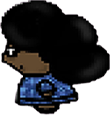
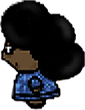
Juego completado. Animaciones agregadas. Parpadeo reducido

diff --git a/src/Interfaz/HistoriaMary.java b/src/Interfaz/HistoriaMary.java
@@ -28,6 +28,12 @@ public class HistoriaMary extends javax.swing.JPanel {
     String dir2;
     String lastDir;
     String user;
+    private int infinito;
+    private int leg;
+    private int contLeg;
+    private int direct;
+    private int mov;
+    private int verif;
     Boolean objs[] = {false, false, false, false, false, false, false};
     int cont = 2, tipo = 0;
 
@@ -47,7 +53,6 @@ public class HistoriaMary extends javax.swing.JPanel {
         DM2.setVisible(false);
         DM3.setVisible(false);
         OBFA.setVisible(false);
-        OBNF.setVisible(false);
         OBF.setVisible(false);
         Obj1.setVisible(false);
         Obj2.setVisible(false);
@@ -56,12 +61,60 @@ public class HistoriaMary extends javax.swing.JPanel {
         Obj5.setVisible(false);
         Obj6.setVisible(false);
         Obj7.setVisible(false);
+        caminarMary.start();
     }
 
     public void paint(Graphics g, Image i, int x, int y) {
         super.paint(g);
         g.drawImage(i, x, y, null);
     }
+    public void dibujar(int x, int y, String dir) {
+        mary.Dibujar(this.getGraphics(), x, y, dir);
+
+    }
+    Thread caminarMary = new Thread() {
+        @Override
+        public void run() {
+            infinito = 0;
+
+            while (infinito == 0) {
+                try {
+                    contLeg++;
+                    mov++;
+                    if (contLeg == 3) {
+                        if (direct == -1) {
+                            dir = user + "\\src\\Resources\\Images\\Mary\\M-L.png";
+                            dibujar(x, y, dir);
+                        }
+                        if (direct == 1) {
+                            dir = user + "\\src\\Resources\\Images\\Mary\\M-R.png";
+                            dibujar(x, y, dir);
+                        }
+                        if (direct == 2) {
+                            dir = user + "\\src\\Resources\\Images\\Mary\\M-B.png";
+                            dibujar(x, y, dir);
+                        }
+                        if (direct == -2) {
+                            dir = user + "\\src\\Resources\\Images\\Mary\\M-D.png";
+                            dibujar(x, y, dir);
+                        }
+
+                    }
+
+                    Thread.sleep(100);
+                } catch (InterruptedException e) {
+
+                }
+            }
+        }
+    };
+    private boolean isFast() {
+        if (mov <= 1) {
+            return true;
+        }
+        return false;
+    }
+
 
     @SuppressWarnings("unchecked")
     // <editor-fold defaultstate="collapsed" desc="Generated Code">//GEN-BEGIN:initComponents
@@ -80,7 +133,6 @@ public class HistoriaMary extends javax.swing.JPanel {
         DM3 = new javax.swing.JLabel();
         OBF = new javax.swing.JLabel();
         OBFA = new javax.swing.JLabel();
-        OBNF = new javax.swing.JLabel();
         VolverSeleccion = new javax.swing.JButton();
         BCK6 = new javax.swing.JLabel();
 
@@ -144,9 +196,6 @@ public class HistoriaMary extends javax.swing.JPanel {
         OBFA.setIcon(new javax.swing.ImageIcon(getClass().getResource("/Resources/Images/Mary/OBFA.png"))); // NOI18N
         add(OBFA, new org.netbeans.lib.awtextra.AbsoluteConstraints(470, 450, -1, -1));
 
-        OBNF.setIcon(new javax.swing.ImageIcon(getClass().getResource("/Resources/Images/Mary/OBNF.png"))); // NOI18N
-        add(OBNF, new org.netbeans.lib.awtextra.AbsoluteConstraints(470, 450, -1, -1));
-
         VolverSeleccion.setText("Volver a Seleccion de personajes");
         VolverSeleccion.addActionListener(new java.awt.event.ActionListener() {
             public void actionPerformed(java.awt.event.ActionEvent evt) {
@@ -164,86 +213,143 @@ public class HistoriaMary extends javax.swing.JPanel {
         /*float x = evt.getX(), y = evt.getY();
         System.out.println(x + " , " + y);*/
     }//GEN-LAST:event_formMouseClicked
-
-    private void formKeyPressed(java.awt.event.KeyEvent evt) {//GEN-FIRST:event_formKeyPressed
+    public void movimiento(int key) {
         x = mary.getX();
         y = mary.getY();
         int type;
         dir = "";
 
-        int key = evt.getKeyCode();
         if (estado == Estado.NOT_IN_DIALOG) {
             if (cont > 4) {
                 switch (key) {
                     case KeyEvent.VK_LEFT:
-                        if (y >= 270 && y <= 540) {
+                        if (y >= 240 && y <= 510) {
                             if (!(x - 10 < 150)) {
                                 x -= 10;
                             }
                         } else {
-                            if (y >= 230 && y <= 270) {
+                            if (y >= 200 && y <= 240) {
                                 if (!(x - 10 < 360)) {
                                     x -= 10;
                                 }
                             }
                         }
-                        dir = user + "\\src\\Resources\\Images\\Mary\\M-L.png";
+                        if (leg == 1) {
+                            dir = user + "\\src\\Resources\\Images\\Mary\\M-L-L.png";
+                            mov = 0;
+                            contLeg = 0;
+                            direct = -1;
+                            leg = 2;
+                        } else {
+                            mov = 0;
+                            dir = user + "\\src\\Resources\\Images\\Mary\\M-L-R.png";
+
+                            leg = 1;
+
+                            contLeg = 0;
+                            direct = -1;
+
+                        }
+
                         lastDir = dir;
                         break;
                     case KeyEvent.VK_RIGHT:
-                        if (y >= 230 && y <= 440) {
+                        if (y >= 200 && y <= 410) {
                             if (!(x + 10 > 1250)) {
                                 x += 10;
                             }
                         } else {
-                            if (y >= 440 && y <= 540) {
+                            if (y >= 410 && y <= 510) {
                                 if (!(x + 10 > 850)) {
                                     x += 10;
                                 }
                             }
                         }
 
-                        dir = user + "\\src\\Resources\\Images\\Mary\\M-R.png";
+                        if (leg == 1) {
+                            mov = 0;
+                            dir = user + "\\src\\Resources\\Images\\Mary\\M-R-L.png";
+
+                            leg = 2;
+                            contLeg = 0;
+                            direct = 1;
+                        } else {
+                            mov = 0;
+                            dir = user + "\\src\\Resources\\Images\\Mary\\M-R-R.png";
+
+                            leg = 1;
+                            contLeg = 0;
+                            direct = 1;
+                        }
+
                         lastDir = dir;
                         break;
                     case KeyEvent.VK_UP:
                         if (x >= 150 && x <= 350) {
-                            if (!(y - 10 < 270)) {
+                            if (!(y - 10 < 240)) {
                                 y -= 10;
                             }
 
                         } else {
                             if (x >= 360 && x <= 1250) {
-                                if (!(y - 10 < 230)) {
+                                if (!(y - 10 < 200)) {
                                     y -= 10;
 
                                 }
                             }
                         }
+                        if (leg == 1) {
+                            mov = 0;
+                            dir = user + "\\src\\Resources\\Images\\Mary\\M-B-L.png";
 
-                        dir = user + "\\src\\Resources\\Images\\Mary\\M-B.png";
+                            leg = 2;
+                            contLeg = 0;
+                            direct = 2;
+                        } else {
+                            mov = 0;
+                            dir = user + "\\src\\Resources\\Images\\Mary\\M-B-R.png";
+
+                            leg = 1;
+                            contLeg = 0;
+                            direct = 2;
+                        }
+
                         lastDir = dir;
                         break;
                     case KeyEvent.VK_DOWN:
                         if (x >= 150 && x <= 850) {
-                            if (!(y + 10 > 540)) {
+                            if (!(y + 10 > 510)) {
                                 y += 10;
                             }
 
                         } else {
                             if (x >= 850 && x <= 1250) {
-                                if (!(y + 10 > 440)) {
+                                if (!(y + 10 > 410)) {
                                     y += 10;
 
                                 }
                             }
                         }
+                        if (leg == 1) {
+                            mov = 0;
+                            dir = user + "\\src\\Resources\\Images\\Mary\\M-D-L.png";
 
-                        dir = user + "\\src\\Resources\\Images\\Mary\\M-D.png";
+                            leg = 2;
+                            contLeg = 0;
+                            direct = -2;
+                        } else {
+                            mov = 0;
+                            dir = user + "\\src\\Resources\\Images\\Mary\\M-D-R.png";
+
+                            leg = 1;
+                            contLeg = 0;
+                            direct = -2;
+                        }
+
                         lastDir = dir;
                         break;
                     case KeyEvent.VK_SPACE:
-                        if (y == 440) {
+                        if (y == 410) {
                             if (x >= 1050 && x <= 1130) {
                                 if (objs[0] == false) {
                                     Obj1.setVisible(true);
@@ -262,7 +368,7 @@ public class HistoriaMary extends javax.swing.JPanel {
                         } else {
                             dir = lastDir;
                         }
-                        if (y == 230) {
+                        if (y == 200) {
                             if (x >= 630 && x <= 790) {
                                 if (objs[1] == false) {
                                     Obj2.setVisible(true);
@@ -281,7 +387,7 @@ public class HistoriaMary extends javax.swing.JPanel {
                         } else {
                             dir = lastDir;
                         }
-                        if (y == 230) {
+                        if (y == 200) {
                             if (x >= 1150 && x <= 1250) {
                                 if (objs[2] == false) {
                                     Obj3.setVisible(true);
@@ -301,7 +407,7 @@ public class HistoriaMary extends javax.swing.JPanel {
                             dir = lastDir;
                         }
                         if (x == 150) {
-                            if (y >= 500 && y <= 540) {
+                            if (y >= 470 && y <= 510) {
                                 if (objs[3] == false) {
                                     Obj4.setVisible(true);
                                     OBF.setVisible(true);
@@ -319,7 +425,7 @@ public class HistoriaMary extends javax.swing.JPanel {
                         } else {
                             dir = lastDir;
                         }
-                        if (y == 230) {
+                        if (y == 200) {
                             if (x >= 360 && x <= 380) {
                                 if (objs[4] == false) {
                                     Obj5.setVisible(true);
@@ -338,7 +444,7 @@ public class HistoriaMary extends javax.swing.JPanel {
                         } else {
                             dir = lastDir;
                         }
-                        if (y == 230) {
+                        if (y == 200) {
                             if (x >= 900 && x <= 950) {
                                 if (objs[5] == false) {
                                     Obj6.setVisible(true);
@@ -358,7 +464,7 @@ public class HistoriaMary extends javax.swing.JPanel {
                             dir = lastDir;
                         }
                         if (x == 150) {
-                            if (y >= 270 && y <= 310) {
+                            if (y >= 240 && y <= 280) {
                                 if (objs[6] == false) {
                                     Obj7.setVisible(true);
                                     OBF.setVisible(true);
@@ -426,7 +532,7 @@ public class HistoriaMary extends javax.swing.JPanel {
         } else {
             if (estado == Estado.IN_DIALOG) {
                 System.out.println("en dialogo");
-                if (evt.getKeyCode() == KeyEvent.VK_SPACE) {
+                if (key == KeyEvent.VK_SPACE) {
                     System.out.println("se presiona espacio");
                     switch (tipo) {
                         case 1:
@@ -440,10 +546,23 @@ public class HistoriaMary extends javax.swing.JPanel {
                             lienzo.getCl().show(lienzo, "SELECCION");
                             lienzo.getSeleccion().setRequestFocusEnabled(true);
                             lienzo.getSeleccion().grabFocus();
+                            infinito = 1;
                             break;
                     }
                     estado = Estado.NOT_IN_DIALOG;
                 }
+            }
+        }
+    }
+    private void formKeyPressed(java.awt.event.KeyEvent evt) {//GEN-FIRST:event_formKeyPressed
+        if (!isFast()) {
+
+            movimiento(evt.getKeyCode());
+        } else {
+            verif++;
+            if (verif == 6) {
+                verif = 0;
+                movimiento(evt.getKeyCode());
             }
         }
 
@@ -473,7 +592,6 @@ public class HistoriaMary extends javax.swing.JPanel {
     private javax.swing.JLabel FM;
     private javax.swing.JLabel OBF;
     private javax.swing.JLabel OBFA;
-    private javax.swing.JLabel OBNF;
     private javax.swing.JLabel Obj1;
     private javax.swing.JLabel Obj2;
     private javax.swing.JLabel Obj3;
